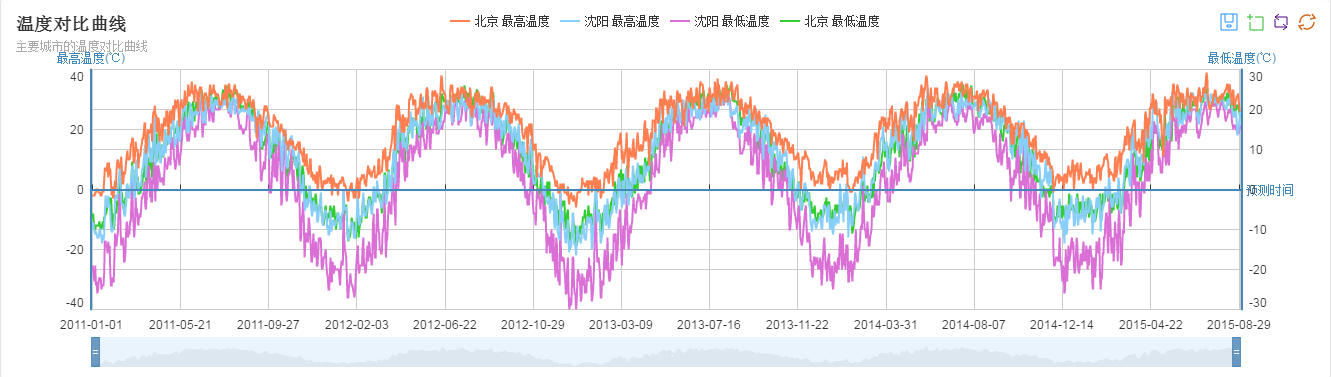
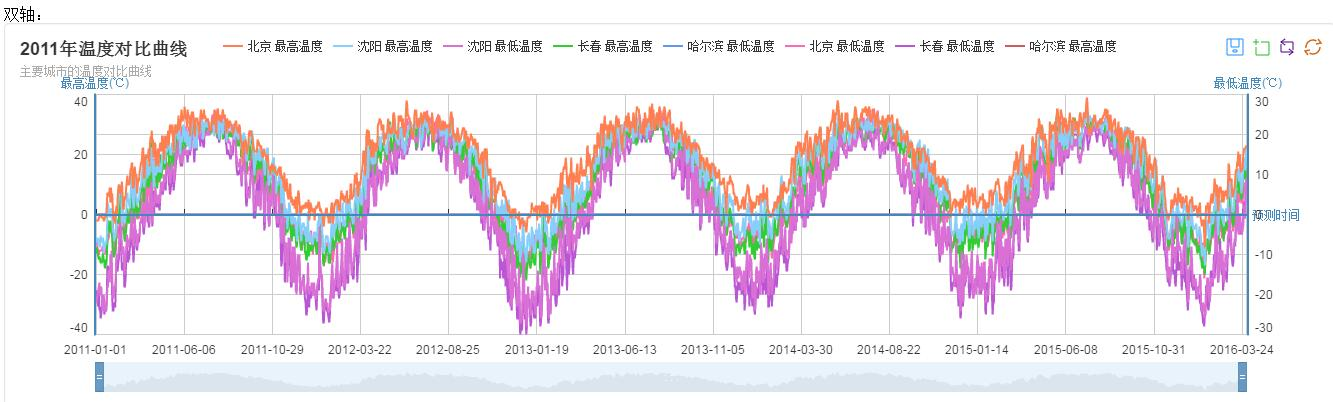
增加曲线的条目，排序问题出现

diff --git a/src/com/hrhx/servlet/LineTimeLineServlet.java b/src/com/hrhx/servlet/LineTimeLineServlet.java
@@ -37,35 +37,56 @@ public class LineTimeLineServlet extends HttpServlet {
 		List<String> timelineData = chinaAreaDataDao.getYearList();
 	
 		List<ChinaWeatherDataBean> weatherDataList = chinaAreaDataDao.getAll("SELECT * FROM line_weather_main_city WHERE substr(datestr,0,5) = '2011'");
+		
 		List<Double> beijingMaxTemp = new ArrayList<Double>();
 		List<Double> beijingMinTemp = new ArrayList<Double>();
 		List<Double> changchunMaxTemp = new ArrayList<Double>();
 		List<Double> changchunMinTemp = new ArrayList<Double>();
+		List<Double> shenyangMaxTemp = new ArrayList<Double>();
+		List<Double> shenyangMinTemp = new ArrayList<Double>();
+		List<Double> haerbinMaxTemp = new ArrayList<Double>();
+		List<Double> haerbinMinTemp = new ArrayList<Double>();
 		
 		for(ChinaWeatherDataBean chinaWeatherDataBean:weatherDataList){
 			//x轴数据
-			xAxisData.add(chinaWeatherDataBean.getDatestr().substring(5,10));
+			xAxisData.add(chinaWeatherDataBean.getDatestr());
 			//北京最高温度
 			beijingMaxTemp.add(chinaWeatherDataBean.getBeijing_maxtemp());
 			//北京最低温度
 			beijingMinTemp.add(chinaWeatherDataBean.getBeijing_mintemp());
-			//沈阳最高温度
+			//长春最高温度
 			changchunMaxTemp.add(chinaWeatherDataBean.getChangchun_maxtemp());
-			//沈阳最高温度
+			//长春最高温度
 			changchunMinTemp.add(chinaWeatherDataBean.getChangchun_mintemp());
+			//沈阳最高温度
+			shenyangMaxTemp.add(chinaWeatherDataBean.getShenyang_maxtemp());
+			//沈阳最高温度
+			shenyangMinTemp.add(chinaWeatherDataBean.getShenyang_mintemp());
+			//哈尔滨最高温度
+			haerbinMaxTemp.add(chinaWeatherDataBean.getHaerbin_maxtemp());
+			//哈尔滨最高温度
+			haerbinMinTemp.add(chinaWeatherDataBean.getHaerbin_mintemp());
 		}
 		
 		//y轴数据
 		yAxisData.put("北京 最高温度", beijingMaxTemp);
 		yAxisData.put("北京 最低温度", beijingMinTemp);
-		yAxisData.put("沈阳 最高温度", changchunMaxTemp);
-		yAxisData.put("沈阳 最低温度", changchunMinTemp);
+		yAxisData.put("长春 最高温度", changchunMaxTemp);
+		yAxisData.put("长春 最低温度", changchunMinTemp);
+		yAxisData.put("沈阳 最高温度", shenyangMaxTemp);
+		yAxisData.put("沈阳 最低温度", shenyangMinTemp);
+		yAxisData.put("哈尔滨 最高温度", haerbinMinTemp);
+		yAxisData.put("哈尔滨 最低温度", haerbinMinTemp);
 		
 		//Y轴双轴情况下的位置定位
 		yAxisIndex.put("北京 最高温度", 0);//0表示Y轴左轴
+		yAxisIndex.put("长春 最高温度", 0);//0表示Y轴左轴
 		yAxisIndex.put("沈阳 最高温度", 0);//0表示Y轴左轴
+		yAxisIndex.put("哈尔滨 最高温度", 0);//0表示Y轴左轴
 		yAxisIndex.put("北京 最低温度", 1);//1表示Y轴右轴
+		yAxisIndex.put("长春 最低温度", 1);//1表示Y轴右轴
 		yAxisIndex.put("沈阳 最低温度", 1);//1表示Y轴右轴
+		yAxisIndex.put("哈尔滨 最低温度", 1);//1表示Y轴右轴
 		
 		for(int i=1;i<timelineData.size();i++){
 			Map<String,List<Double>> yAxisData1 = new HashMap<String,List<Double>>();
@@ -74,21 +95,37 @@ public class LineTimeLineServlet extends HttpServlet {
 			List<Double> beijingMinTemp1 = new ArrayList<Double>();
 			List<Double> changchunMaxTemp1 = new ArrayList<Double>();
 			List<Double> changchunMinTemp1 = new ArrayList<Double>();
+			List<Double> shenyangMaxTemp1 = new ArrayList<Double>();
+			List<Double> shenyangMinTemp1 = new ArrayList<Double>();
+			List<Double> haerbinMaxTemp1 = new ArrayList<Double>();
+			List<Double> haerbinMinTemp1 = new ArrayList<Double>();
 			for(ChinaWeatherDataBean chinaWeatherDataBean1:weatherDataList1){
 				//北京最高温度
 				beijingMaxTemp1.add(chinaWeatherDataBean1.getBeijing_maxtemp());
 				//北京最低温度
 				beijingMinTemp1.add(chinaWeatherDataBean1.getBeijing_mintemp());
-				//沈阳最高温度
+				//长春最高温度
 				changchunMaxTemp1.add(chinaWeatherDataBean1.getChangchun_maxtemp());
-				//沈阳最高温度
+				//长春最高温度
 				changchunMinTemp1.add(chinaWeatherDataBean1.getChangchun_mintemp());
+				//沈阳最高温度
+				shenyangMaxTemp1.add(chinaWeatherDataBean1.getShenyang_maxtemp());
+				//沈阳最高温度
+				shenyangMinTemp1.add(chinaWeatherDataBean1.getShenyang_mintemp());
+				//哈尔滨最高温度
+				haerbinMaxTemp1.add(chinaWeatherDataBean1.getHaerbin_maxtemp());
+				//哈尔滨最高温度
+				haerbinMinTemp1.add(chinaWeatherDataBean1.getHaerbin_mintemp());
 			}
 			//y轴数据
 			yAxisData1.put("北京 最高温度", beijingMaxTemp1);
 			yAxisData1.put("北京 最低温度", beijingMinTemp1);
-			yAxisData1.put("沈阳 最高温度", changchunMaxTemp1);
-			yAxisData1.put("沈阳 最低温度", changchunMinTemp1);
+			yAxisData1.put("长春 最高温度", changchunMaxTemp1);
+			yAxisData1.put("长春 最低温度", changchunMinTemp1);
+			yAxisData1.put("沈阳 最高温度", shenyangMaxTemp1);
+			yAxisData1.put("沈阳 最低温度", shenyangMinTemp1);
+			yAxisData1.put("哈尔滨 最高温度", haerbinMinTemp1);
+			yAxisData1.put("哈尔滨 最低温度", haerbinMinTemp1);
 			timelineAxisData.add(yAxisData1);
 		}
 		

diff --git a/src/com/hrhx/bean/ChinaWeatherDataBean.java b/src/com/hrhx/bean/ChinaWeatherDataBean.java
@@ -7,29 +7,48 @@ import com.j256.ormlite.table.DatabaseTable;
 public class ChinaWeatherDataBean {
 	@DatabaseField(columnName = "datestr")
 	private String datestr;
+	
 	@DatabaseField(columnName = "beijing_maxtemp")
 	private double beijing_maxtemp;
 	@DatabaseField(columnName = "beijing_mintemp")
 	private double beijing_mintemp;
+	
 	@DatabaseField(columnName = "changchun_maxtemp")
 	private double changchun_maxtemp;
 	@DatabaseField(columnName = "changchun_mintemp")
 	private double changchun_mintemp;
 	
+	@DatabaseField(columnName = "shenyang_maxtemp")
+	private double shenyang_maxtemp;
+	@DatabaseField(columnName = "shenyang_mintemp")
+	private double shenyang_mintemp;
+	
+	@DatabaseField(columnName = "haerbin_maxtemp")
+	private double haerbin_maxtemp;
+	@DatabaseField(columnName = "haerbin_mintemp")
+	private double haerbin_mintemp;
+	
 	public ChinaWeatherDataBean() {
 		super();
 	}
-
-	public ChinaWeatherDataBean(String datestr, Double beijing_maxtemp,
-			Double beijing_mintemp, Double changchun_maxtemp,
-			Double changchun_mintemp) {
+	
+	public ChinaWeatherDataBean(String datestr, double beijing_maxtemp,
+			double beijing_mintemp, double changchun_maxtemp,
+			double changchun_mintemp, double shenyang_maxtemp,
+			double shenyang_mintemp, double haerbin_maxtemp,
+			double haerbin_mintemp) {
 		super();
 		this.datestr = datestr;
 		this.beijing_maxtemp = beijing_maxtemp;
 		this.beijing_mintemp = beijing_mintemp;
 		this.changchun_maxtemp = changchun_maxtemp;
 		this.changchun_mintemp = changchun_mintemp;
+		this.shenyang_maxtemp = shenyang_maxtemp;
+		this.shenyang_mintemp = shenyang_mintemp;
+		this.haerbin_maxtemp = haerbin_maxtemp;
+		this.haerbin_mintemp = haerbin_mintemp;
 	}
+
 
 	public String getDatestr() {
 		return datestr;
@@ -39,38 +58,68 @@ public class ChinaWeatherDataBean {
 		this.datestr = datestr;
 	}
 
-	public Double getBeijing_maxtemp() {
+	public double getBeijing_maxtemp() {
 		return beijing_maxtemp;
 	}
 
-	public void setBeijing_maxtemp(Double beijing_maxtemp) {
+	public void setBeijing_maxtemp(double beijing_maxtemp) {
 		this.beijing_maxtemp = beijing_maxtemp;
 	}
 
-	public Double getBeijing_mintemp() {
+	public double getBeijing_mintemp() {
 		return beijing_mintemp;
 	}
 
-	public void setBeijing_mintemp(Double beijing_mintemp) {
+	public void setBeijing_mintemp(double beijing_mintemp) {
 		this.beijing_mintemp = beijing_mintemp;
 	}
 
-	public Double getChangchun_maxtemp() {
+	public double getChangchun_maxtemp() {
 		return changchun_maxtemp;
 	}
 
-	public void setChangchun_maxtemp(Double changchun_maxtemp) {
+	public void setChangchun_maxtemp(double changchun_maxtemp) {
 		this.changchun_maxtemp = changchun_maxtemp;
 	}
 
-	public Double getChangchun_mintemp() {
+	public double getChangchun_mintemp() {
 		return changchun_mintemp;
 	}
 
-	public void setChangchun_mintemp(Double changchun_mintemp) {
+	public void setChangchun_mintemp(double changchun_mintemp) {
 		this.changchun_mintemp = changchun_mintemp;
 	}
 
-	
+	public double getShenyang_maxtemp() {
+		return shenyang_maxtemp;
+	}
+
+	public void setShenyang_maxtemp(double shenyang_maxtemp) {
+		this.shenyang_maxtemp = shenyang_maxtemp;
+	}
+
+	public double getShenyang_mintemp() {
+		return shenyang_mintemp;
+	}
+
+	public void setShenyang_mintemp(double shenyang_mintemp) {
+		this.shenyang_mintemp = shenyang_mintemp;
+	}
+
+	public double getHaerbin_maxtemp() {
+		return haerbin_maxtemp;
+	}
+
+	public void setHaerbin_maxtemp(double haerbin_maxtemp) {
+		this.haerbin_maxtemp = haerbin_maxtemp;
+	}
+
+	public double getHaerbin_mintemp() {
+		return haerbin_mintemp;
+	}
+
+	public void setHaerbin_mintemp(double haerbin_mintemp) {
+		this.haerbin_mintemp = haerbin_mintemp;
+	}
 
 }

diff --git a/src/com/hrhx/servlet/LineServlet.java b/src/com/hrhx/servlet/LineServlet.java
@@ -37,6 +37,10 @@ public class LineServlet extends HttpServlet {
 		List<Double> beijingMinTemp = new ArrayList<Double>();
 		List<Double> changchunMaxTemp = new ArrayList<Double>();
 		List<Double> changchunMinTemp = new ArrayList<Double>();
+		List<Double> shenyangMaxTemp = new ArrayList<Double>();
+		List<Double> shenyangMinTemp = new ArrayList<Double>();
+		List<Double> haerbinMaxTemp = new ArrayList<Double>();
+		List<Double> haerbinMinTemp = new ArrayList<Double>();
 		
 		for(ChinaWeatherDataBean chinaWeatherDataBean:weatherDataList){
 			//x轴数据
@@ -45,23 +49,40 @@ public class LineServlet extends HttpServlet {
 			beijingMaxTemp.add(chinaWeatherDataBean.getBeijing_maxtemp());
 			//北京最低温度
 			beijingMinTemp.add(chinaWeatherDataBean.getBeijing_mintemp());
-			//沈阳最高温度
+			//长春最高温度
 			changchunMaxTemp.add(chinaWeatherDataBean.getChangchun_maxtemp());
-			//沈阳最高温度
+			//长春最高温度
 			changchunMinTemp.add(chinaWeatherDataBean.getChangchun_mintemp());
+			//沈阳最高温度
+			shenyangMaxTemp.add(chinaWeatherDataBean.getShenyang_maxtemp());
+			//沈阳最高温度
+			shenyangMinTemp.add(chinaWeatherDataBean.getShenyang_mintemp());
+			//哈尔滨最高温度
+			haerbinMaxTemp.add(chinaWeatherDataBean.getHaerbin_maxtemp());
+			//哈尔滨最高温度
+			haerbinMinTemp.add(chinaWeatherDataBean.getHaerbin_mintemp());
+			
 		}
 		
 		//y轴数据
 		yAxisData.put("北京 最高温度", beijingMaxTemp);
 		yAxisData.put("北京 最低温度", beijingMinTemp);
-		yAxisData.put("沈阳 最高温度", changchunMaxTemp);
-		yAxisData.put("沈阳 最低温度", changchunMinTemp);
+		yAxisData.put("长春 最高温度", changchunMaxTemp);
+		yAxisData.put("长春 最低温度", changchunMinTemp);
+		yAxisData.put("沈阳 最高温度", shenyangMaxTemp);
+		yAxisData.put("沈阳 最低温度", shenyangMinTemp);
+		yAxisData.put("哈尔滨 最高温度", haerbinMinTemp);
+		yAxisData.put("哈尔滨 最低温度", haerbinMinTemp);
 		
 		//Y轴双轴情况下的位置定位
 		yAxisIndex.put("北京 最高温度", 0);//0表示Y轴左轴
+		yAxisIndex.put("长春 最高温度", 0);//0表示Y轴左轴
 		yAxisIndex.put("沈阳 最高温度", 0);//0表示Y轴左轴
+		yAxisIndex.put("哈尔滨 最高温度", 0);//0表示Y轴左轴
 		yAxisIndex.put("北京 最低温度", 1);//1表示Y轴右轴
+		yAxisIndex.put("长春 最低温度", 1);//1表示Y轴右轴
 		yAxisIndex.put("沈阳 最低温度", 1);//1表示Y轴右轴
+		yAxisIndex.put("哈尔滨 最低温度", 1);//1表示Y轴右轴
 		
 		request.setAttribute("yAxisIndex", yAxisIndex);
 		request.setAttribute("xAxisData", xAxisData);
